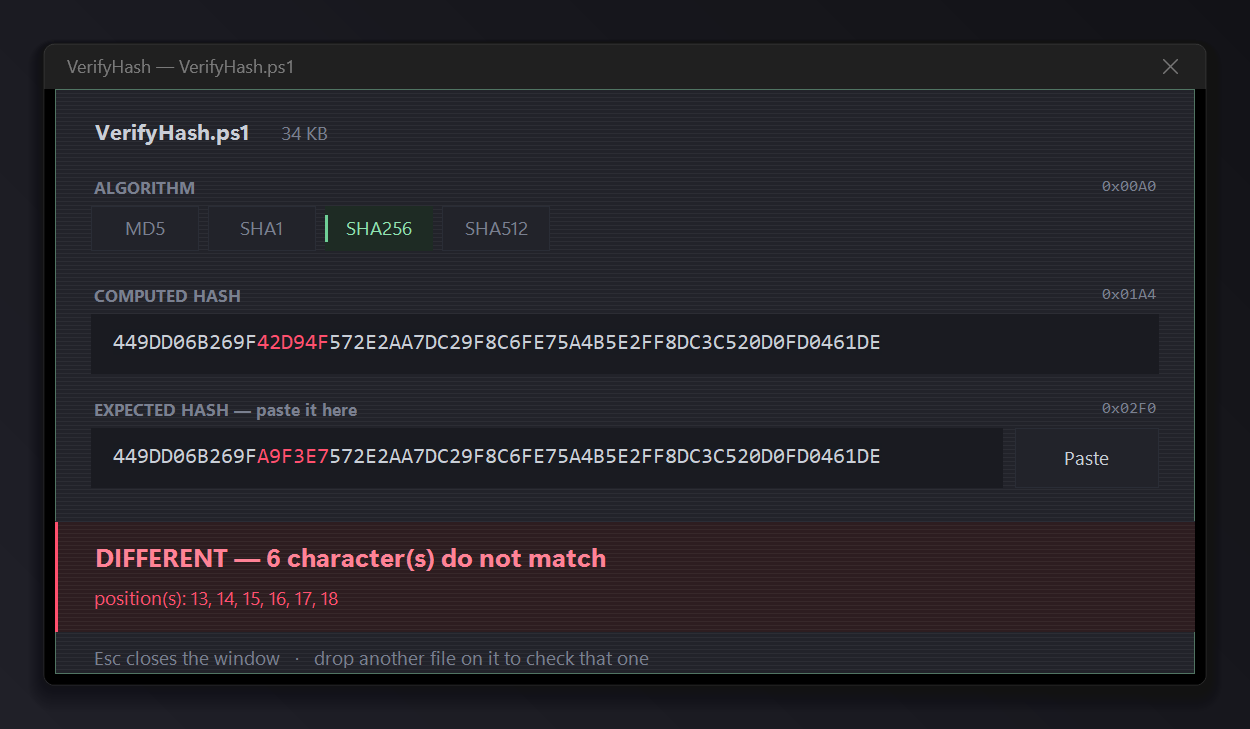
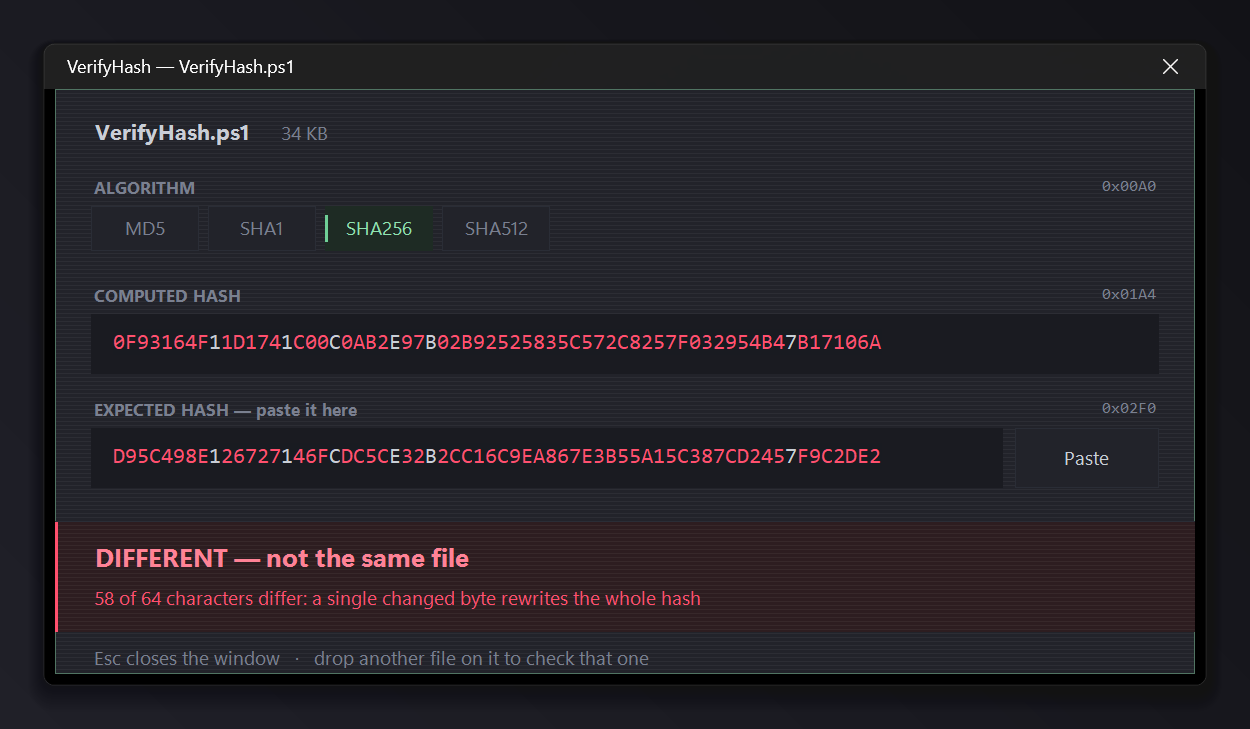
Split "different file" from "bad copy" on the right threshold
A hash avalanches: one changed byte flips about half the output bits, so a
genuinely different file differs on roughly 15 of every 16 hex characters.
The "completely different" branch required every single character to differ,
which is (15/16)^64 - under 2% - so it practically never fired, and a real
mismatch was reported as a plain count of differing characters with no clue
about what caused it.

The split is now made on the proportion: at or above 40% of the compared
characters the file itself is different, and the window says so with the count.
Below that, and at equal length, the difference comes from the copy - a
truncated paste, a line read off the wrong row - which the window now points
out rather than leaving the reader to guess.

The mismatch screenshot showed six hand-edited characters, a case a different
file cannot produce. It now shows a real other file's hash, 58 of 64
characters apart, and moves up next to the other shots at the top of both
READMEs.

diff --git a/README.fr.md b/README.fr.md
@@ -14,6 +14,8 @@ droits administrateur.
 
 <img src="docs/screenshot.png" alt="La fenêtre de vérification, avec un hash calculé et un hash attendu identiques" width="1000">
 
+<img src="docs/screenshot-mismatch.png" alt="La fenêtre de vérification après avoir collé le hash d'un autre fichier : 58 caractères sur 64 diffèrent, surlignés en rouge dans les deux champs" width="1000">
+
 ## Le problème
 
 Un site publie une somme de contrôle à côté de son téléchargement. Comparer
@@ -76,10 +78,12 @@ fait au fil de la saisie, il n'y a pas de bouton à valider.
 - **Le texte collé est nettoyé.** Espaces, retours à la ligne et préfixes du
   type `SHA256:` sont ignorés, la casse est normalisée — copier une ligne
   entière depuis une page de téléchargement fonctionne.
-- **Les écarts sont surlignés** dans les deux champs, avec leur position : de
-  quoi distinguer un copier-coller tronqué d'un fichier réellement différent :
-
-  <img src="docs/screenshot-mismatch.png" alt="La fenêtre de vérification avec six caractères en écart, surlignés en rouge dans les deux champs" width="1000">
+- **Les écarts sont surlignés** dans les deux champs, avec leur position. Un
+  hash a un effet avalanche : un seul octet modifié dans le fichier fait
+  basculer environ la moitié des bits de sortie, donc un fichier réellement
+  différent diffère sur à peu près 15 caractères sur 16. Quelques écarts
+  seulement désignent au contraire un copier-coller raté — valeur tronquée,
+  ligne prise sur la mauvaise entrée — et la fenêtre le dit.
 - **La fenêtre s'affiche immédiatement** et une barre suit la lecture du
   fichier, même sur plusieurs gigaoctets. Changer d'algorithme en cours de
   calcul annule et relance sans attendre.

diff --git a/README.md b/README.md
@@ -14,6 +14,8 @@ rights.
 
 <img src="docs/screenshot.png" alt="The verification window showing a computed and an expected SHA-256 that match" width="1000">
 
+<img src="docs/screenshot-mismatch.png" alt="The verification window after pasting another file's hash: 58 of the 64 characters differ, highlighted in red in both fields" width="1000">
+
 ## The problem
 
 A project publishes a checksum next to its download. Comparing 64 hexadecimal
@@ -75,10 +77,11 @@ runs as you type; there is no button to confirm.
 - **Pasted text is cleaned up.** Spaces, line breaks and prefixes such as
   `SHA256:` are dropped, and the case is normalised — copying a whole line off
   a download page works.
-- **Differences are highlighted** in both fields, with their positions, so you
-  can tell a truncated paste from a genuinely different file:
-
-  <img src="docs/screenshot-mismatch.png" alt="The verification window with six characters differing, highlighted in red in both fields" width="1000">
+- **Differences are highlighted** in both fields, with their positions. A hash
+  avalanches: one changed byte in the file flips about half the output bits, so
+  a genuinely different file differs on roughly 15 of every 16 characters. A
+  handful of differences instead means the copy went wrong — a truncated paste,
+  a line read off the wrong row — and the window says so.
 - **The window appears instantly** and a progress bar moves while the file is
   read, even on several gigabytes. Switching algorithm mid-hash cancels and
   restarts immediately.
